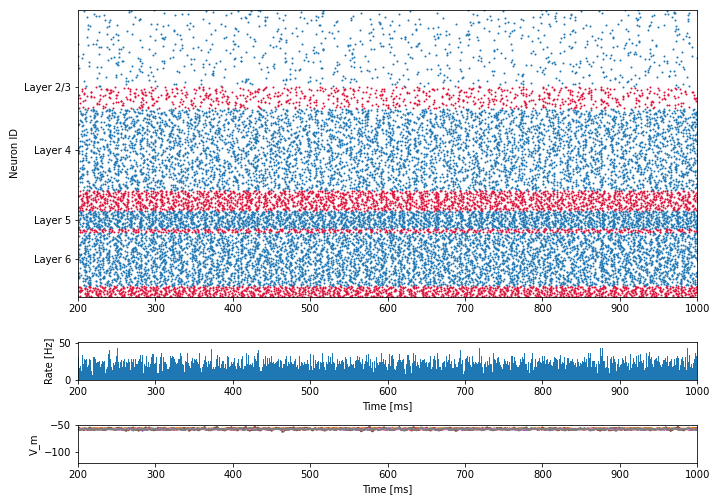
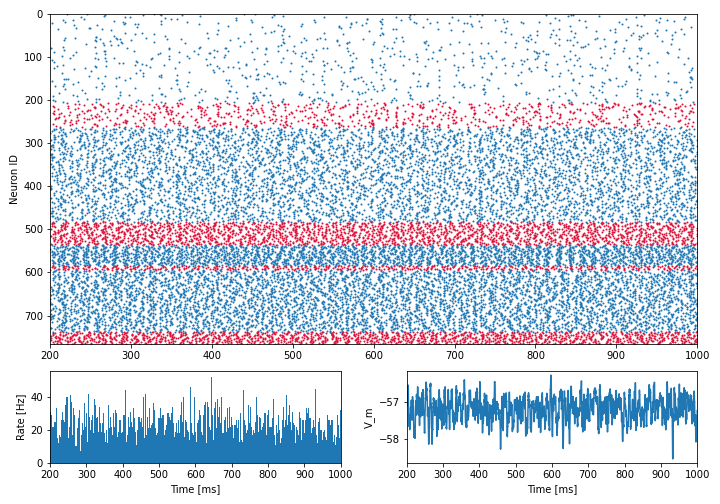
small stuff

diff --git a/simulation/functions.py b/simulation/functions.py
@@ -11,7 +11,6 @@ class Network:
     def __init__(self, p):
         self.populations = {}
         self.thalamic_population = {}
-        self.labels = []
         self.nrec = []
         self.rec_start = p['rec_start']
         self.rec_stop = p['rec_stop']
@@ -38,7 +37,7 @@ class Network:
                             'record_from': ["V_m"]
                             })
 
-    def addpop(self, neuron_type, pop_name ,num_neurons, neuron_params=None, label=None, 
+    def addpop(self, neuron_type, pop_name ,num_neurons, neuron_params=None, 
                record=False, nrec=0.):
         """
         Adds a population to the network with given parameters
@@ -246,18 +245,6 @@ class Network:
         """
         nest.Simulate(t_sim)
     
-    def get_labels(self):
-        """
-        Returns the labels for the populations in the network
-
-        Returns
-        -------
-        list
-            A list containing the labels indicating either excitatory or inhibitory populations.
-
-        """
-        return self.labels
-    
     def get_nrec(self):
         """
         Returns the number of neurons recorded from each population in the order they were created.
@@ -291,73 +278,6 @@ class Network:
         
         
         return mm_dict, sr_dict
-    
-    def create_fir_filters(self, H_YX, params):
-        """Create sets of FIR filters for each signal probe
-        Code taken from https://github.com/LFPy/LFPykernels based on the work of Hagen et al. (2022)
-        https://journals.plos.org/ploscompbiol/article?id=10.1371/journal.pcbi.1010353
-        
-        Parameters
-        ----------
-        kernels: nested dict
-        """
-        num_neurons = [int(x) for x in params['num_neurons']*params['N_scale']]
-        keys = list(H_YX[f"{params['layer_type'][0]}:{params['layer_type'][0]}"].keys())
-        n_kernels = len(keys)
-        n_filters_per_kernel = [] 
-        for key in keys:
-            n_filters_per_kernel += [H_YX[f"{params['layer_type'][0]}:{params['layer_type'][0]}"][key].shape[0]]
-            
-        # create container
-        if not hasattr(self, 'fir_filters'):
-            self.fir_filters = dict()
-            
-        # create sets of FIR_filter nodes for each type of measurement and 
-        # presynaptic population (ignoring Poisson generators)
-        for k in keys:
-            self.fir_filters[k] = dict()
-            # presynaptic
-            for i, X in enumerate(params['layer_type']):
-                # self.fir_filters[k][X] = []
-                # postsynaptic
-                for j, Y in enumerate(params['layer_type']):
-                    H = H_YX[f'{Y}:{X}'][k]
-                    
-                    # create one fir_filter node for each row
-                    fir_filter_params = []
-                    for h in H:
-                        fir_filter_params += [dict(
-                            N=h.size,  # filter order
-                            h=h,  # filter coefficients
-                        )]
-                    self.fir_filters[k][f'{Y}:{X}'] = nest.Create('fir_filter_nestml', 
-                                                                  H.shape[0], 
-                                                                  fir_filter_params)
-                    
-        # create recording multimeters, one per probe, sample every dt
-        self.multimeters = dict()
-        for k in keys:
-            self.multimeters[k] = dict()
-            for X in params['layer_type']:
-                for Y in params['layer_type']:
-                    self.multimeters[k][f'{Y}:{X}'] = nest.Create('multimeter', 1, 
-                                                                  {'interval': params['resolution'], 'label': f'{k}_{Y}:{X}'})
-                    self.multimeters[k][f'{Y}:{X}'].set({"record_from": ["y"]})
-        
-        # connect FIR filter nodes to the corresponding presynaptic populations at minimum delay
-        for k in keys:
-            for i, X in enumerate(params['layer_type']):
-                for Y in params['layer_type']:
-                    nest.Connect(self.populations[f'{X}'], 
-                                 self.fir_filters[k][f'{Y}:{X}'], 
-                                 syn_spec=dict(delay=params['resolution']))
-        
-        # connect multimeters
-        for k in keys:
-            for i, X in enumerate(params['layer_type']):
-                for Y in params['layer_type']:
-                    nest.Connect(self.multimeters[k][f'{Y}:{X}'], 
-                                 self.fir_filters[k][f'{Y}:{X}'])
     
 def prep_spikes(spikes):
     

diff --git a/simulation/setup.py b/simulation/setup.py
@@ -21,26 +21,25 @@ def setup():
         'g'          :     -4.,                                                # Excitation-Inhibition balance
         'resolution' :     0.1,                                                # Resolution of the simulaton
         'transient'  :     200,                                                # Ignore the first x ms of the simulation
-        'th_in'      :     20.,                                                # Thalamic input, nodes x frequency
+        'th_in'      :    120.,                                                # Thalamic input in Hz
         'th_start'   :    400.,
-        'th_stop'    :    600.,
+        'th_stop'    :    410.,
         'num_neurons': np.array([20683, 5834, 21915, 5479, 4850, 1065, 14365, 2948]),
-        'label'      : ['E', 'I', 'E', 'I', 'E', 'I', 'E', 'I'],
         'cell_params'  : {
-                        'V_m'     : -58.,
-                        'V_th'    : -50.,
-                        'V_reset' : -65.,
-                        'C_m'     : 250.,
-                        't_ref'   : 2. ,
-                        'tau_syn_ex' : 0.5,
-                        'tau_syn_in' : 0.5,
-                        'E_L':       -65.0,
-                        'tau_m' :     10.0,},
-        'layer_type' : [                                                             # Layer and cell types
-                        'L23_E', 'L23_I',
-                        'L4_E', 'L4_I',  
-                        'L5_E', 'L5_I', 
-                        'L6_E', 'L6_I']
+                        'V_m'        :  -58.,
+                        'V_th'       :  -50.,
+                        'V_reset'    :  -65.,
+                        'C_m'        :  250.,
+                        't_ref'      :    2.,
+                        'tau_syn_ex' :   0.5,
+                        'tau_syn_in' :   0.5,
+                        'E_L'        : -65.0,
+                        'tau_m'      :  10.0,
+                        },
+        'layer_type' : ['L23_E', 'L23_I',
+                        'L4_E' , 'L4_I' ,  
+                        'L5_E' , 'L5_I' , 
+                        'L6_E' , 'L6_I' ]
         }
     
     ################################################################

diff --git a/simulation/run.py b/simulation/run.py
@@ -27,7 +27,7 @@ if params['verbose'] and rank == 0:
 ########################
 nest.ResetKernel()
 nest.local_num_threads = 32 ## adapt if necessary
-nest.print_time = True if params['verbose'] == True else False
+##nest.print_time = True if params['verbose'] == True else False
 nest.resolution = params['resolution']
 nest.set_verbosity("M_WARNING")
 nest.overwrite_files = True
@@ -57,7 +57,7 @@ if params['verbose'] and rank == 0:
     print(f"Time required for setup: {time.time() - st}\nPreparing network...")
 
 for i in range(len(params['layer_type'])):
-    network.addpop('iaf_psc_exp', params['layer_type'][i] , int(num_neurons[i]), params['cell_params'], label=params['label'][i], record=True, nrec=int(params['R_scale']* num_neurons[i]))
+    network.addpop('iaf_psc_exp', params['layer_type'][i] , int(num_neurons[i]), params['cell_params'], record=True, nrec=int(params['R_scale']* num_neurons[i]))
 
 ###############################################################################
 ## Add background stimulation
